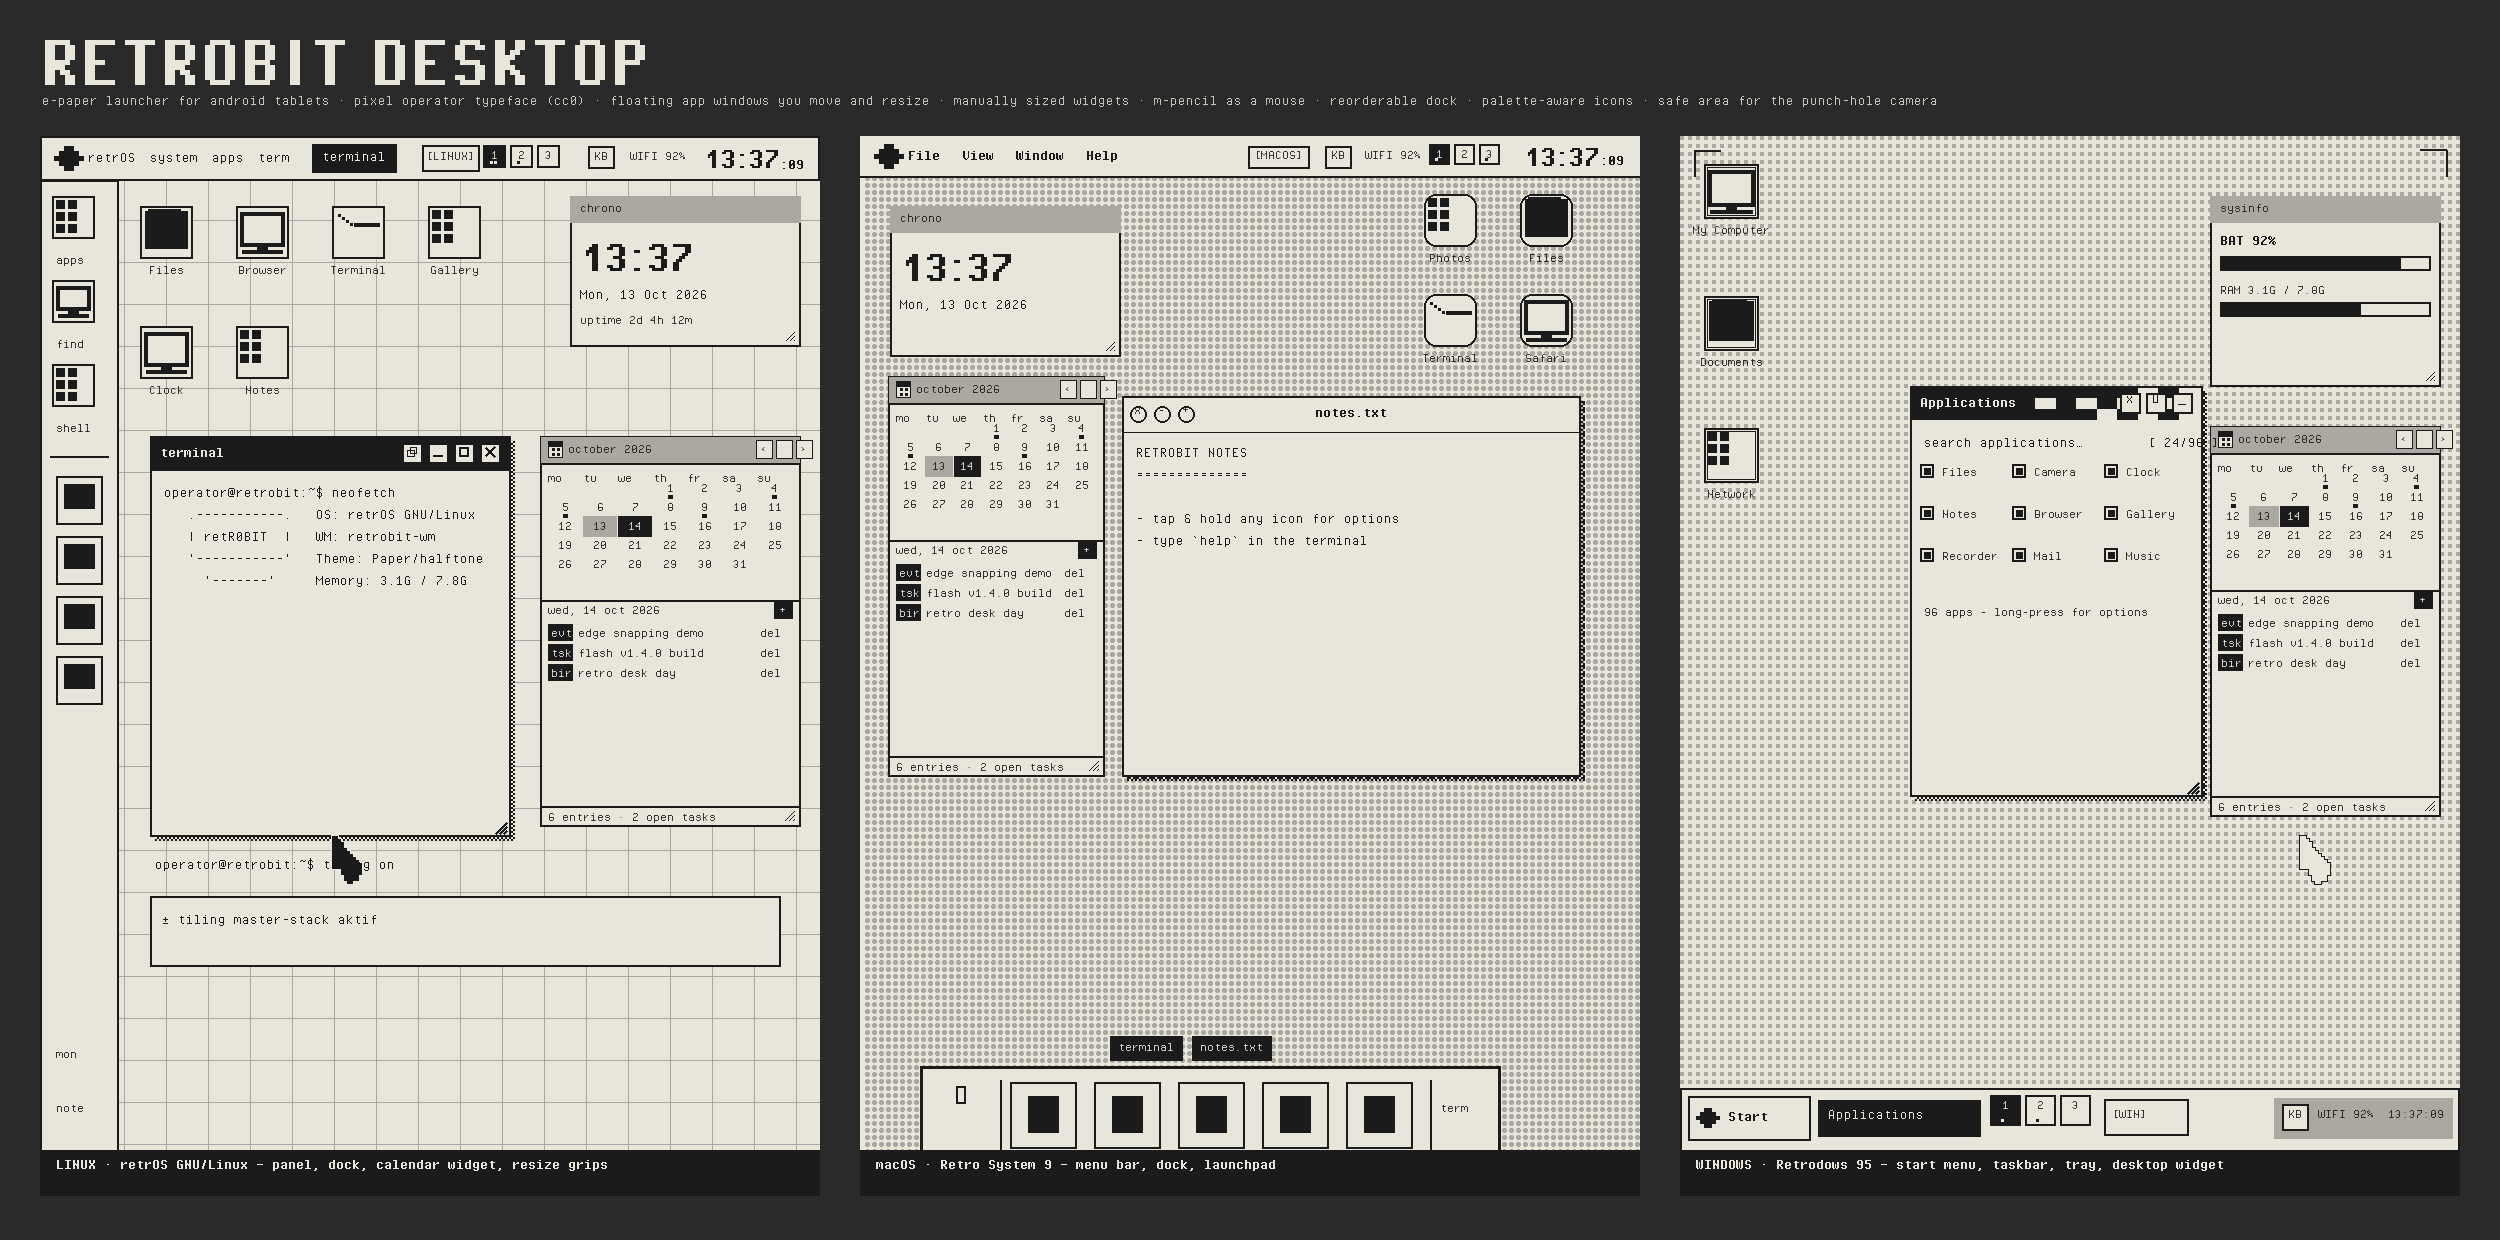
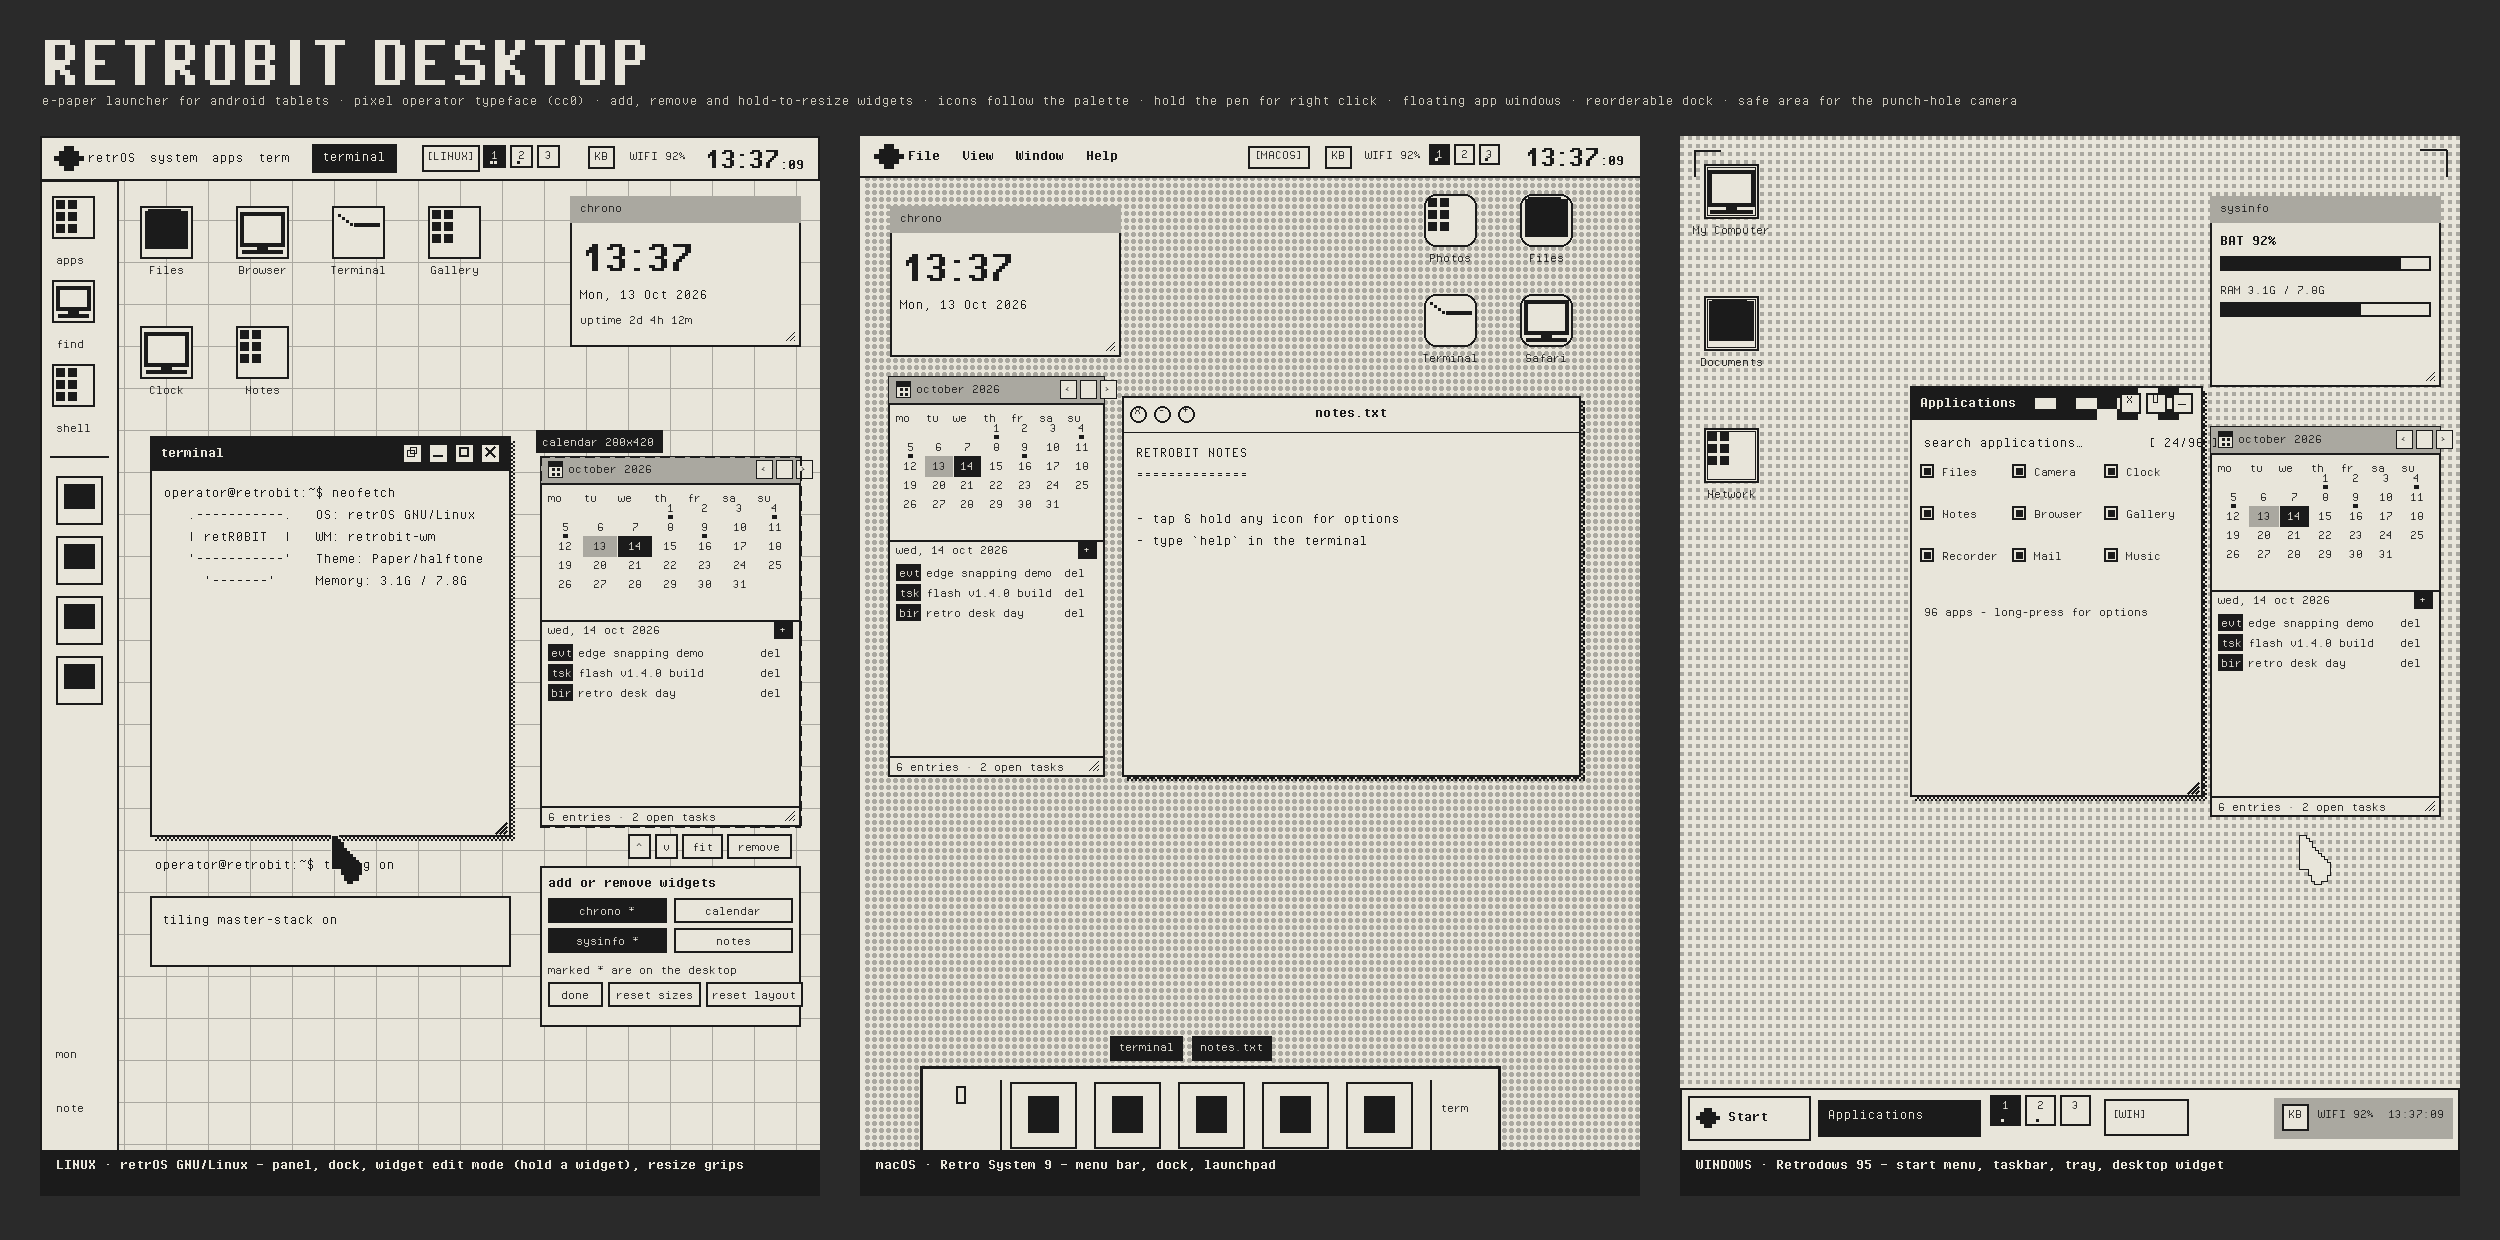
docs: show the new widget edit mode in the preview and fix the test counts
The mockup now draws what a held widget looks like (dashed frame, name + size
chip, ^ / v / fit / remove toolbar) plus the add-or-remove-widgets panel, and the
subtitle and the Linux caption advertise the new interactions. README: 63 tests
(23 + 15 + 9 + 16)

Changed region(s): [[0.2184, 0.6742, 0.312, 0.8274], [0.2184, 0.3371, 0.3432, 0.4597], [0.2184, 0.4903, 0.3432, 0.5823]]

diff --git a/tools/mockup.py b/tools/mockup.py
@@ -275,6 +275,65 @@ def widget_grip(d, x1, y1, size=11):
         d.line([x1 - size + o, y1 - 3, x1 - 3, y1 - size + o], fill=INK, width=1)
 
 
+def dashed_rect(d, box, dash=9, gap=6, width=2, color=INK):
+    """The edit-mode frame a held widget draws around itself."""
+    x0, y0, x1, y1 = box
+    x = x0
+    while x < x1:
+        d.line([x, y0, min(x + dash, x1), y0], fill=color, width=width)
+        d.line([x, y1, min(x + dash, x1), y1], fill=color, width=width)
+        x += dash + gap
+    y = y0
+    while y < y1:
+        d.line([x0, y, x0, min(y + dash, y1)], fill=color, width=width)
+        d.line([x1, y, x1, min(y + dash, y1)], fill=color, width=width)
+        y += dash + gap
+
+
+def edit_button(d, x, y, label, width=None, active=False):
+    """A RetroButton/RetroIconButton in the widget edit chrome."""
+    tw = d.textlength(label, font=mono_tiny)
+    bw = width if width else tw + 16
+    d.rectangle([x, y, x + bw, y + 24], fill=INK if active else PAPER, outline=INK, width=2)
+    d.text((x + (bw - tw) / 2, y + 5), label, font=mono_tiny, fill=PAPER if active else INK)
+    return x + bw
+
+
+def widget_edit_chrome(d, box, name, size_text):
+    """What a widget looks like while it is being edited: dashed frame, name chip, toolbar.
+
+    Mirrors ui/desktop/WidgetFrame.kt (WidgetSlot + WidgetToolbar).
+    """
+    x0, y0, x1, y1 = box
+    dashed_rect(d, box)
+    chip = f"{name} {size_text}"
+    cw = d.textlength(chip, font=mono_tiny)
+    d.rectangle([x0 - 4, y0 - 26, x0 - 4 + cw + 14, y0 - 4], fill=INK)
+    d.text((x0 + 2, y0 - 22), chip, font=mono_tiny, fill=PAPER)
+    bx = x1 - 4
+    for label, w in (("remove", 64), ("fit", 40), ("v", 22), ("^", 22)):
+        bx -= w + 5
+        edit_button(d, bx, y1 + 8, label, width=w)
+    return y1 + 40
+
+
+def add_widget_panel(d, box, marks=(True, False, True, False)):
+    """The `add or remove widgets` panel of the edit mode (DesktopWidgets / AddWidgetBar)."""
+    x0, y0, x1, y1 = box
+    d.rectangle([x0, y0, x1, y1], fill=PAPER, outline=INK, width=2)
+    d.text((x0 + 8, y0 + 8), "add or remove widgets", font=mono_bold, fill=INK)
+    names = ("chrono *", "calendar", "sysinfo *", "notes")
+    for i, name in enumerate(names):
+        bx = x0 + 8 + (i % 2) * ((x1 - x0 - 24) / 2 + 8)
+        by = y0 + 32 + (i // 2) * 30
+        bw = (x1 - x0 - 24) / 2
+        edit_button(d, bx, by, name, width=bw, active=marks[i] if i < len(marks) else False)
+    d.text((x0 + 8, y0 + 96), "marked * are on the desktop", font=mono_tiny, fill=INK)
+    bx = x0 + 8
+    for label, w in (("done", 54), ("reset sizes", 92), ("reset layout", 96)):
+        bx = edit_button(d, bx, y0 + 116, label, width=w) + 6
+
+
 def calendar_widget(d, box, mirror=False):
     """Compact calendar: month grid, dots on days with entries, agenda for the selected day.
 
@@ -423,7 +482,10 @@ def panel(caption, style):
         d.text((w - 240, 150), "Mon, 13 Oct 2026", font=mono, fill=INK)
         d.text((w - 240, 176), "uptime 2d 4h 12m", font=mono_tiny, fill=INK)
         widget_grip(d, w - 23, 207)
-        calendar_widget(d, (500, 300, w - 20, 690))
+        # widget edit mode: the user held the calendar, so it is framed, named and re-sizable
+        calendar_widget(d, (500, 320, w - 20, 690))
+        widget_edit_chrome(d, (500, 320, w - 20, 690), "calendar", "280x420")
+        add_widget_panel(d, (500, 730, w - 20, 890))
         window(d, (110, 300, 470, 700), "terminal", body_lines=[
             "operator@retrobit:~$ neofetch",
             "   .-----------.   OS: retrOS GNU/Linux",
@@ -434,8 +496,8 @@ def panel(caption, style):
         window_grip(d, (110, 300, 470, 700))
         cursor(d, 292, 700, cell=3)
         d.text((115, 720), "operator@retrobit:~$ tiling on", font=mono, fill=INK)
-        d.rectangle([110, 760, w - 40, 830], fill=PAPER, outline=INK, width=2)
-        d.text((122, 775), "± tiling master–stack aktif", font=mono, fill=INK)
+        d.rectangle([110, 760, 470, 830], fill=PAPER, outline=INK, width=2)
+        d.text((122, 775), "tiling master-stack on", font=mono, fill=INK)
     elif style == "macos":
         d.rectangle([0, 0, w, 40], fill=PAPER)
         d.line([0, 40, w, 40], fill=INK, width=2)
@@ -550,7 +612,7 @@ def panel(caption, style):
 def main():
     os.makedirs(os.path.dirname(OUT), exist_ok=True)
     panels = [
-        panel("LINUX · retrOS GNU/Linux — panel, dock, calendar widget, resize grips", "linux"),
+        panel("LINUX · retrOS GNU/Linux — panel, dock, widget edit mode (hold a widget), resize grips", "linux"),
         panel("macOS · Retro System 9 — menu bar, dock, launchpad", "macos"),
         panel("WINDOWS · Retrodows 95 — start menu, taskbar, tray, desktop widget", "windows"),
     ]
@@ -560,7 +622,7 @@ def main():
     d = ImageDraw.Draw(sheet)
     big = ImageFont.truetype(os.path.join(FONT_DIR, "pixel_operator_bold.ttf"), 80)
     d.text((40, 20), "RETROBIT DESKTOP", font=big, fill=PAPER)
-    d.text((42, 92), "e-paper launcher for android tablets · pixel operator typeface (cc0) · floating app windows you move and resize · manually sized widgets · m-pencil as a mouse · reorderable dock · palette-aware icons · safe area for the punch-hole camera",
+    d.text((42, 92), "e-paper launcher for android tablets · pixel operator typeface (cc0) · add, remove and hold-to-resize widgets · icons follow the palette · hold the pen for right click · floating app windows · reorderable dock · safe area for the punch-hole camera",
            font=mono, fill=(0xC9, 0xC5, 0xB8))
     x = 40
     for p in panels:

diff --git a/README.md b/README.md
@@ -113,7 +113,7 @@ lengkap dengan window manager, tiga gaya desktop yang bisa dipilih, dan sistem v
 - Ukuran bisa diatur dari mana saja: `Settings - display widgets`, terminal `widgets`,
   `widget width 300`, `widget size calendar 280 420`, `widget reset`. Tinggi 0 = setinggi isinya;
   kalau lebih pendek, isi widget bisa di-scroll. Matematikanya murni di `ui/wm/WidgetMath.kt`
-  (**15 unit test**).
+  (**16 unit test**).
 - **Widget kalender** di desktop: grid bulan, penanda titik pada hari yang ada acaranya, panel
   agenda hari terpilih, dan tombol `+` untuk menambah entri **langsung dari desktop**.
 - Empat jenis entri: **event**, **task**, **agenda**, dan **birthday** (birthday otomatis berulang
@@ -159,8 +159,8 @@ lengkap dengan window manager, tiga gaya desktop yang bisa dipilih, dan sistem v
   ke susunan otomatis, *Show placement grid* untuk memunculkan garis pandu saat men-drag.
 - Matematika layout dipisah ke file murni Kotlin tanpa Android supaya bisa di-unit-test:
   `ui/wm/LayoutMath.kt` (snap, tiling, **resize**), `ui/wm/GridMath.kt` (grid ikon) dan
-  `ui/wm/DockMath.kt` (urutan dock) dan `ui/wm/WidgetMath.kt` (ukuran + daftar widget) — **62 test**:
-  23 `LayoutMathTest` + 15 `GridMathTest` + 9 `DockMathTest` + 15 `WidgetMathTest`.
+  `ui/wm/DockMath.kt` (urutan dock) dan `ui/wm/WidgetMath.kt` (ukuran + daftar widget) — **63 test**:
+  23 `LayoutMathTest` + 15 `GridMathTest` + 9 `DockMathTest` + 16 `WidgetMathTest`.
 
 ### Input: pena, mouse, keyboard
 - M-Pencil diperlakukan sebagai mouse: tap = klik kiri, **tap 2× = klik kanan**, barrel button = klik kanan.
@@ -276,7 +276,7 @@ Animasi BIOS singkat (bisa dimatikan di Settings) plus layar boot bergaya e-pape
 
 Setiap push menjalankan workflow [`.github/workflows/android.yml`](.github/workflows/android.yml):
 
-1. **job `test`** — `./gradlew :app:testDebugUnitTest` (62 unit test untuk matematika tiling &
+1. **job `test`** — `./gradlew :app:testDebugUnitTest` (63 unit test untuk matematika tiling &
    edge-snapping); jumlah test/failure muncul di job summary dan sebagai check annotation
 2. **job `build`** — checkout → JDK 17 → Android SDK (platform 35, build-tools 35.0.0) → Gradle (cache),
    lalu `./gradlew :app:assembleDebug :app:assembleRelease`
